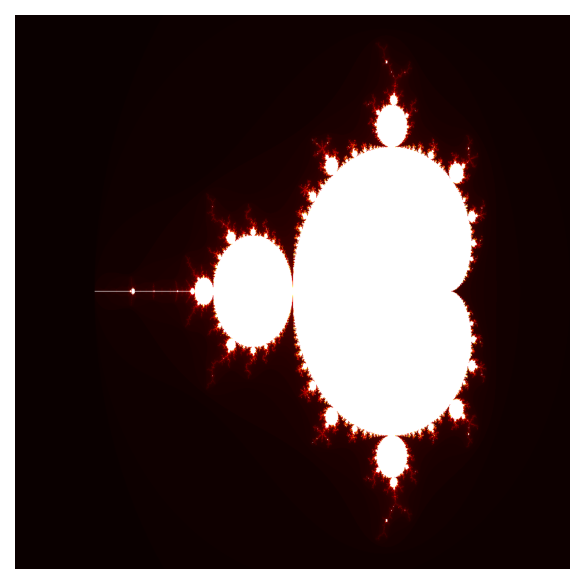
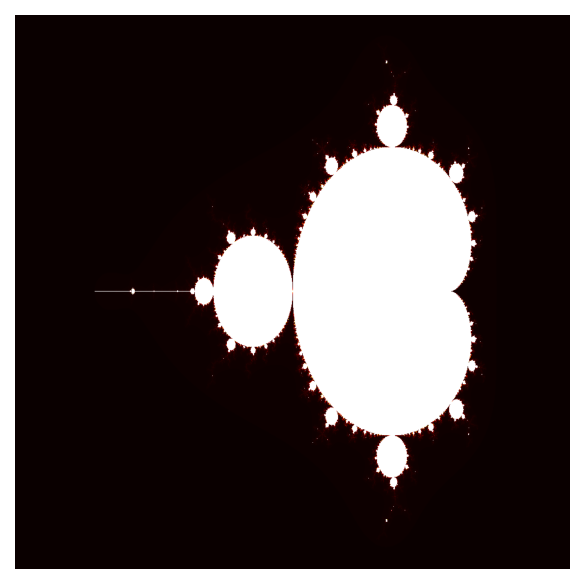
refactored mandelbrot_gpu.py, added benchmarking and bar chart comparison, fixed numba implementation to warmup before benchmarking

Changed region(s): [[0.2158, 0.0616, 0.8322, 0.9247], [0.7705, 0.4623, 0.8014, 0.524]]

diff --git a/mandelbrot/mandelbrot_gpu.py b/mandelbrot/mandelbrot_gpu.py
@@ -1,6 +1,9 @@
 import pyopencl as cl
 import numpy as np
 import time, matplotlib.pyplot as plt
+import time
+import statistics
+import matplotlib.pyplot as plt
 
 KERNEL_SRC_F32 = """
 __kernel void mandelbrot(
@@ -54,6 +57,28 @@ __kernel void mandelbrot_f64(
     result[row * N + col] = count;
 }
 """
+    
+def run_mandelbrot_gpu(kernel, ctx, queue, N, dtype_func):
+    image = np.zeros((N, N), dtype=np.int32)
+    image_dev = cl.Buffer(ctx, cl.mem_flags.WRITE_ONLY, image.nbytes)
+
+    kernel(queue, (N, N), None, image_dev, dtype_func(X_MIN), dtype_func(X_MAX), 
+           dtype_func(Y_MIN), dtype_func(Y_MAX), np.int32(N), np.int32(MAX_ITER))
+    queue.finish()
+
+    cl.enqueue_copy(queue, image, image_dev)
+    queue.finish()
+
+    return image
+
+def timed(fn, runs=3):
+    ts = []
+    for _ in range(runs):
+        t0 = time.perf_counter()
+        fn()
+        queue.finish()  # queue.finish() waits for GPU
+        ts.append(time.perf_counter() - t0)
+    return statistics.median(ts)
 
 if __name__ == "__main__":
         
@@ -62,74 +87,70 @@ if __name__ == "__main__":
     platform = cl.get_platforms()
     my_devices = [platform[pl_id].get_devices()[dev_id]]
     ctx = cl.Context(devices=my_devices)
+    queue = cl.CommandQueue(ctx)
 
-    N, MAX_ITER = 1024, 200
+    N, MAX_ITER = 1024, 1024
     X_MIN, X_MAX = -2.5, 1.0
     Y_MIN, Y_MAX = -1.25, 1.25
 
+    result_host = np.zeros((N, N), dtype=np.int32)
+    result_dev  = cl.Buffer(ctx, cl.mem_flags.WRITE_ONLY, result_host.nbytes)
+
     # Float32
-    queue = cl.CommandQueue(ctx)
-    prog  = cl.Program(ctx, KERNEL_SRC_F32).build()
-    mandelbrot_kernel = cl.Kernel(prog, "mandelbrot")
+    prog_f32 = cl.Program(ctx, KERNEL_SRC_F32).build()
+    kernel_f32 = cl.Kernel(prog_f32, "mandelbrot")
 
-    image = np.zeros((N, N), dtype=np.int32)
-    image_dev = cl.Buffer(ctx, cl.mem_flags.WRITE_ONLY, image.nbytes)
+    img32 = run_mandelbrot_gpu(kernel_f32, ctx, queue, N, np.float32)
 
-    # --- Warm up (first launch triggers a kernel compile) ---
-    mandelbrot_kernel(queue, (64, 64), None, image_dev,
-                    np.float32(X_MIN), np.float32(X_MAX),
-                    np.float32(Y_MIN), np.float32(Y_MAX),
-                    np.int32(64), np.int32(MAX_ITER))
-    queue.finish()
-
-    # --- Time the real run ---
-    t0 = time.perf_counter()
-    mandelbrot_kernel(queue, (N, N), None, image_dev,
-                    np.float32(X_MIN), np.float32(X_MAX),
-                    np.float32(Y_MIN), np.float32(Y_MAX),
-                    np.int32(N), np.int32(MAX_ITER))
-    queue.finish()
-    elapsed = time.perf_counter() - t0
-
-    cl.enqueue_copy(queue, image, image_dev)
-    queue.finish()
-
-    print(f"GPU {N}x{N} f32: {elapsed*1e3:.1f} ms")
-    plt.imshow(image, cmap='hot', origin='lower'); plt.axis('off')
+    bench_f32 = timed(lambda: kernel_f32(queue, (N, N), None, result_dev, 
+                                            np.float32(X_MIN), np.float32(X_MAX), 
+                                            np.float32(Y_MIN), np.float32(Y_MAX), 
+                                            np.int32(N), np.int32(MAX_ITER)))
+    
+    print(f"GPU {N}x{N} f32: {bench_f32*1e3:.3f} ms")
+    plt.imshow(img32, cmap='hot', origin='lower'); plt.axis('off')
     plt.savefig("mandelbrot_gpu_f32.png", dpi=150, bbox_inches='tight')
+
 
     # Float64
     # Check fp64 support
+    bench_f64 = None
     dev = ctx.devices[0]
     if "cl_khr_fp64" not in dev.extensions:
         print("No native fp64 -- Apple Silicon: emulated, expect large slowdown")
     else:
-        queue = cl.CommandQueue(ctx)
-        prog  = cl.Program(ctx, KERNEL_SRC_F64).build()
-        mandelbrot_kernel = cl.Kernel(prog, "mandelbrot_f64")
+        prog_f64 = cl.Program(ctx, KERNEL_SRC_F64).build()
+        kernel_f64 = cl.Kernel(prog_f64, "mandelbrot_f64")
 
-        image = np.zeros((N, N), dtype=np.int32)
-        image_dev = cl.Buffer(ctx, cl.mem_flags.WRITE_ONLY, image.nbytes)
+        img64 = run_mandelbrot_gpu(kernel_f64, ctx, queue, N, np.float64)
 
-        # --- Warm up (first launch triggers a kernel compile) ---
-        mandelbrot_kernel(queue, (64, 64), None, image_dev,
-                        np.float64(X_MIN), np.float64(X_MAX),
-                        np.float64(Y_MIN), np.float64(Y_MAX),
-                        np.int32(64), np.int32(MAX_ITER))
-        queue.finish()
-
-        # --- Time the real run ---
-        t0 = time.perf_counter()
-        mandelbrot_kernel(queue, (N, N), None, image_dev,
-                        np.float64(X_MIN), np.float64(X_MAX),
-                        np.float64(Y_MIN), np.float64(Y_MAX),
-                        np.int32(N), np.int32(MAX_ITER))
-        queue.finish()
-        elapsed = time.perf_counter() - t0
-
-        cl.enqueue_copy(queue, image, image_dev)
-        queue.finish()
-
-        print(f"GPU {N}x{N} f64: {elapsed*1e3:.1f} ms")
-        plt.imshow(image, cmap='hot', origin='lower'); plt.axis('off')
+        bench_f64 = timed(lambda: kernel_f64(queue, (N, N), None, result_dev, 
+                                                      np.float64(X_MIN), np.float64(X_MAX), 
+                                                      np.float64(Y_MIN), np.float64(Y_MAX), 
+                                                      np.int32(N), np.int32(MAX_ITER)))
+        
+        print(f"GPU {N}x{N} f64: {bench_f64*1e3:.3f} ms")
+        plt.imshow(img64, cmap='hot', origin='lower'); plt.axis('off')
         plt.savefig("mandelbrot_gpu_f64.png", dpi=150, bbox_inches='tight')
+
+    # Bar chart
+    results = {
+            "naive Python": 6.797,
+            "NumPy": 1.439,
+            "Numba f32": 0.065,
+            "Numba f64": 0.063,
+            "multiprocessing": 0.013,
+            "Dask local": 0.077,
+            "Dask cluster": 0.084,
+            "GPU f32": bench_f32,
+            "GPU f64": bench_f64
+    }
+
+    names, times = zip(*results.items())
+
+    plt.figure(figsize=(10, 6))
+    plt.bar(names, times, log=True)
+    plt.ylabel("seconds (log scale)")
+    plt.xticks(rotation=30, ha="right")
+    plt.tight_layout()
+    plt.savefig("benchmark_mp3.png", dpi=150)

diff --git a/mandelbrot/mandelbrot_numba.py b/mandelbrot/mandelbrot_numba.py
@@ -16,8 +16,8 @@ def compute_mandelbrot_numba(x_min=-2.0, x_max=1.0, y_min=-1.5, y_max=1.5, width
     y = np.linspace(y_min, y_max, height)
     result = np.zeros((height, width), dtype = np.int32)
 
-    for i in range ( height ):
-        for j in range ( width ):
+    for i in range (height):
+        for j in range (width):
             c = x[j] + 1j * y[i]
             z = 0j
             n = 0
@@ -64,9 +64,9 @@ def mandelbrot_numba_typed(xmin, xmax, ymin, ymax, width, height, max_iter=100, 
 
 if __name__ == "__main__":
 
-    _ = compute_mandelbrot_numba(-2, 1, -1.5, 1.5, 64 , 64) #warm-up
+    _ = compute_mandelbrot_numba(-2.0, 1.0, -1.5, 1.5, 64 , 64) #warm-up
     start = time.perf_counter()
-    result = compute_mandelbrot_numba( -2, 1, -1.5, 1.5, 1024, 1024)
+    result = compute_mandelbrot_numba(-2.0, 1.0, -1.5, 1.5, 1024, 1024)
     end = time.perf_counter()
 
     duration = end - start
@@ -74,22 +74,25 @@ if __name__ == "__main__":
     print(f"Result: {result}")
 
     #Warm up (triggers JIT compilation -- exclude from timing)
-    _ = compute_mandelbrot_hybrid( -2, 1, -1.5, 1.5, 64, 64)
-    _ = compute_mandelbrot_numba( -2, 1, -1.5, 1.5, 64, 64)
-    t_hybrid = bench(compute_mandelbrot_hybrid, -2, 1, -1.5, 1.5, 1024, 1024)
-    t_full = bench(compute_mandelbrot_numba, -2, 1 , -1.5, 1.5, 1024, 1024)
+    _ = compute_mandelbrot_hybrid(-2.0, 1.0, -1.5, 1.5, 64, 64)
+    _ = compute_mandelbrot_numba(-2.0, 1.0, -1.5, 1.5, 64, 64)
+    t_hybrid = bench(compute_mandelbrot_hybrid, -2.0, 1.0, -1.5, 1.5, 1024, 1024)
+    t_full = bench(compute_mandelbrot_numba, -2.0, 1.0 , -1.5, 1.5, 1024, 1024)
     print(f"Hybrid: { t_hybrid:.3f}s")
     print(f"Fully compiled: { t_full:.3f}s")
     print(f"Ratio: { t_hybrid / t_full:.1f}x")
 
     #Precision comparisons
     for dtype in [np.float32, np.float64]:
+        #warm-up
+        _ = mandelbrot_numba_typed(-2.0, 1.0, -1.5, 1.5, 64, 64, 100, dtype)
+        
         t0 = time.perf_counter()
-        mandelbrot_numba_typed(-2, 1, -1.5, 1.5, 1024, 1024, 100, dtype)
+        mandelbrot_numba_typed(-2.0, 1.0, -1.5, 1.5, 1024, 1024, 100, dtype)
         print(f"{ dtype.__name__ }: {time.perf_counter() - t0:.3f}s")
     
-    r32 = mandelbrot_numba_typed( -2 , 1 , -1.5 , 1.5 , 1024 , 1024 , dtype = np.float32 )
-    r64 = mandelbrot_numba_typed( -2 , 1 , -1.5 , 1.5 , 1024 , 1024 , dtype = np.float64 )
+    r32 = mandelbrot_numba_typed(-2.0, 1.0, -1.5, 1.5, 1024, 1024, dtype = np.float32)
+    r64 = mandelbrot_numba_typed(-2.0, 1.0, -1.5, 1.5, 1024, 1024, dtype = np.float64)
     fig, axes = plt.subplots(1, 3, figsize =(12 , 4))
 
     for ax , result , title in zip ( axes, [r32, r64] , ['float32', 'float64 (ref)']) :
